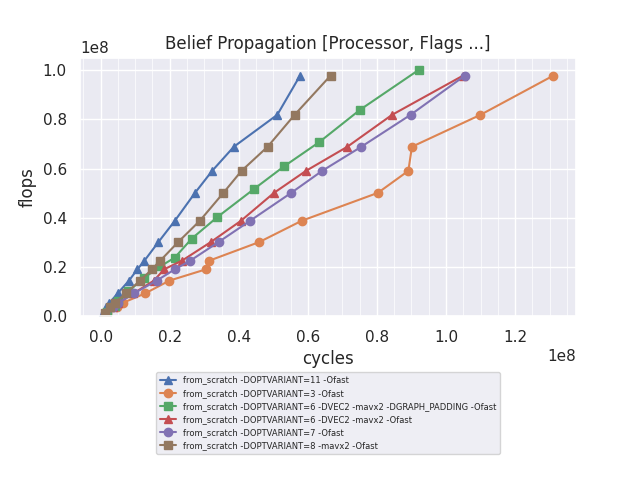
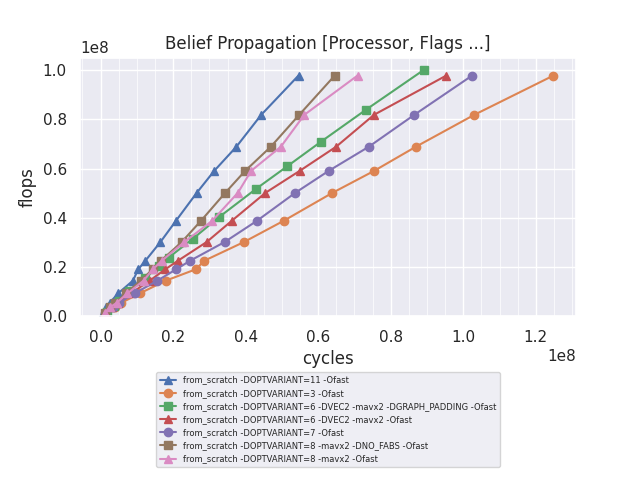
belief 6: NO_FABS option

diff --git a/from_scratch/src/belief6.h b/from_scratch/src/belief6.h
@@ -20,7 +20,9 @@ void propagate(graph_t *G) {
 	const auto Gout = G->out;
 	const auto node_pot = G->node_pot;
 
+#ifndef NO_FABS
 	__m256 abs_mask = _mm256_set1_ps(-0.0);
+#endif
 	__m256 eps = _mm256_set1_ps(EPS);
 	__m256 one = _mm256_set1_ps(1.0);
 	__m256 half = _mm256_set1_ps(0.5);
@@ -68,8 +70,12 @@ void propagate(graph_t *G) {
 			printf("unnorm: %f %f\n", out0, out1);
 #endif
 
+#ifdef NO_FABS
+			__m256 lt_mask = _mm256_cmp_ps(out_sum, eps, _CMP_LT_OQ);
+#else
 			__m256 abs_out_sum = _mm256_andnot_ps(abs_mask, out_sum);
 			__m256 lt_mask = _mm256_cmp_ps(abs_out_sum, eps, _CMP_LT_OQ);
+#endif
 			__m256 out1_norm = _mm256_div_ps(out1, out_sum);
 			__m256 final_out1 = _mm256_blendv_ps(out1_norm, half, lt_mask);
 			
@@ -109,7 +115,11 @@ void propagate(graph_t *G) {
 			printf("unnorm: %f %f\n", out0, out1);
 #endif
 			float_t a = out0 + out1;
+#ifdef NO_FABS
+			*_out = a < EPS ? .5 : out1 / a;
+#else
 			*_out = fabs(a) < EPS ? .5 : out1 / a;
+#endif
 		}
 #endif
 	}
